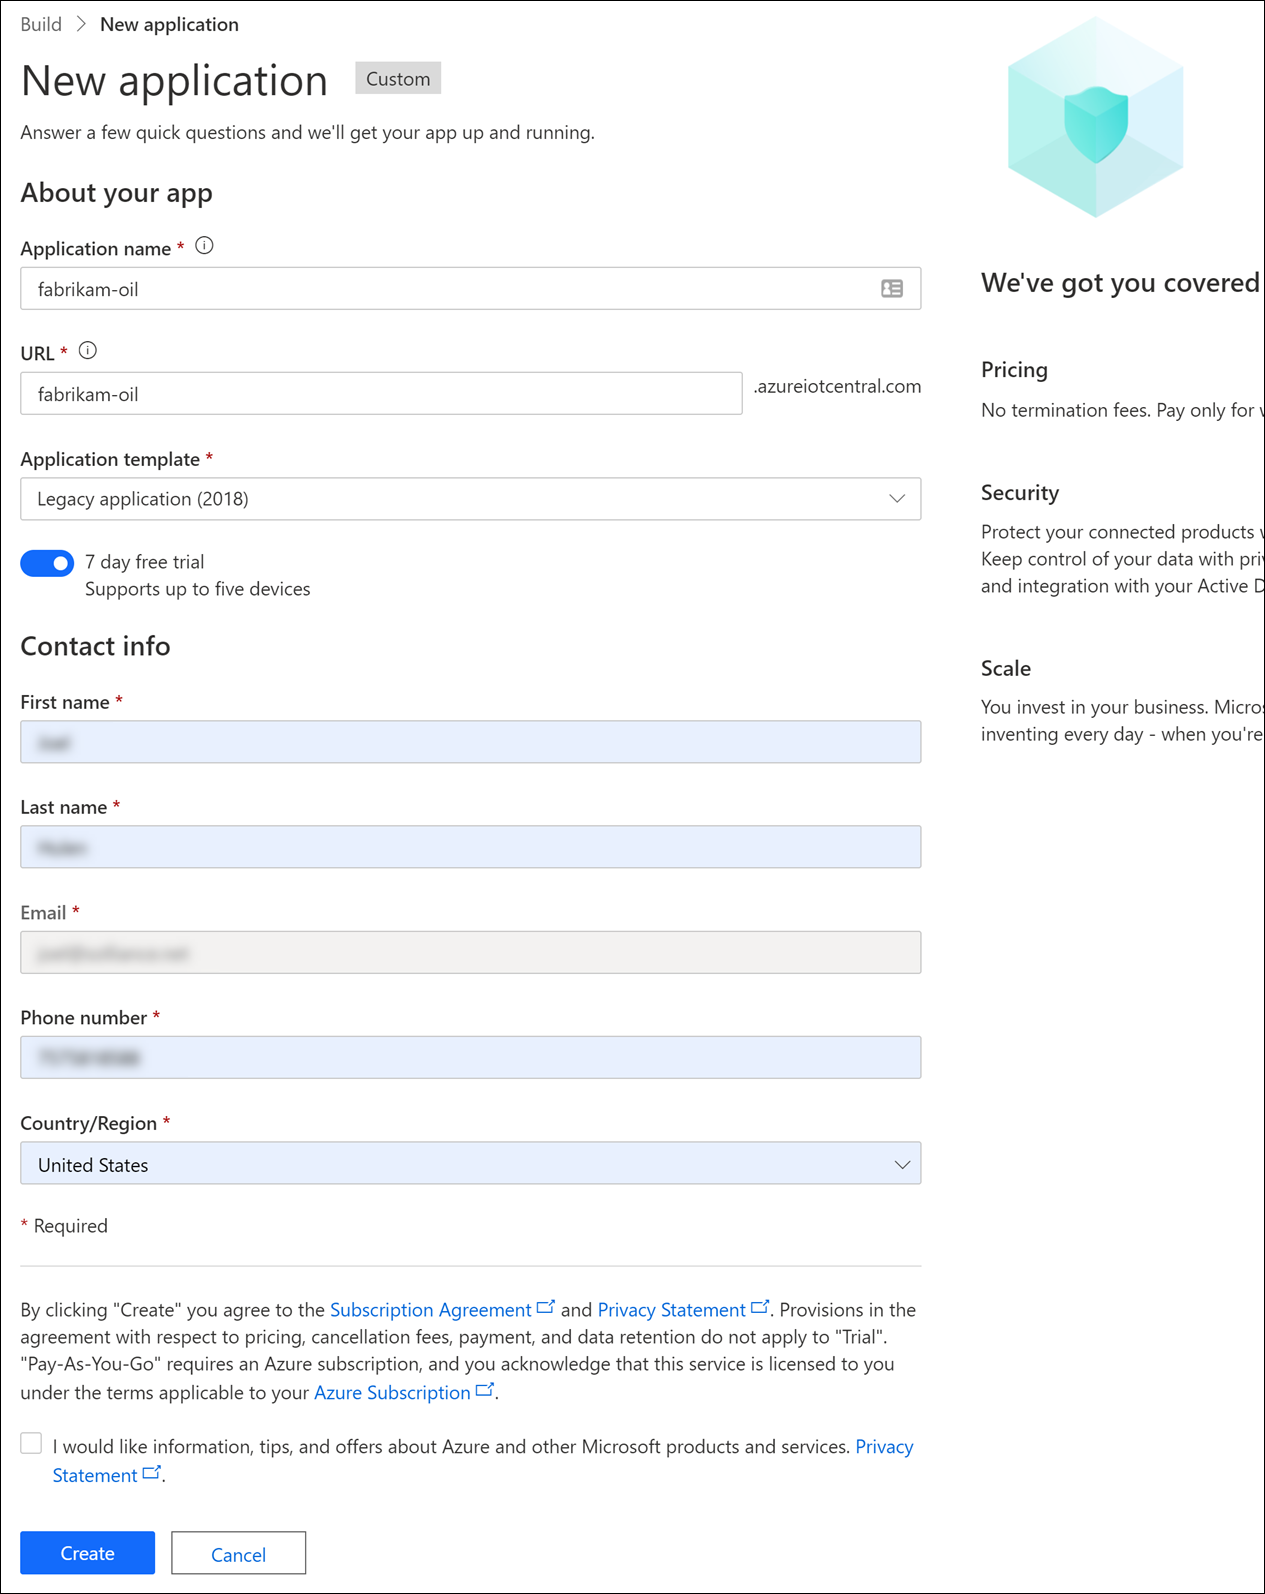
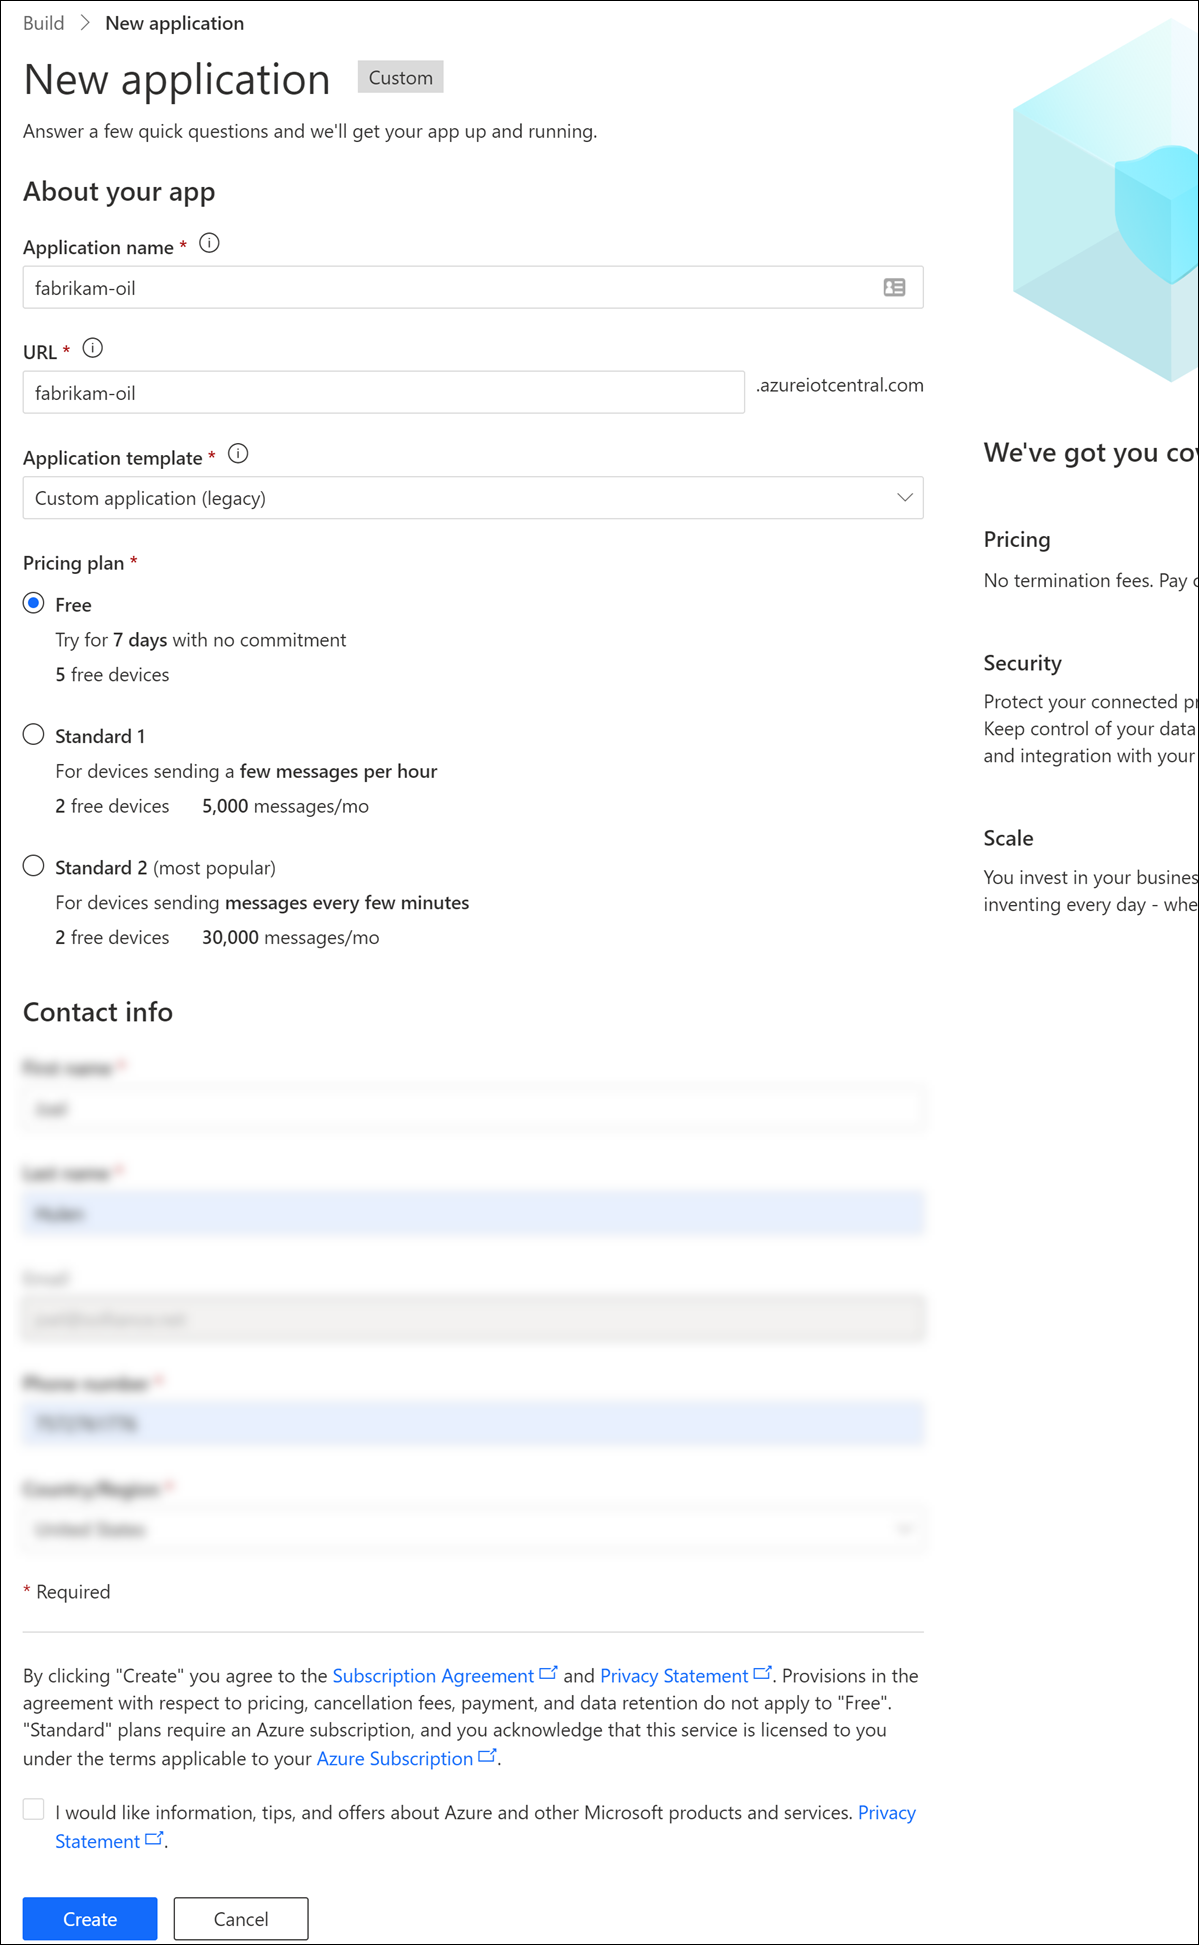
Update exercise 1

diff --git a/Hands-on lab/HOL step-by step - Predictive Maintenance for remote field devices.md b/Hands-on lab/HOL step-by step - Predictive Maintenance for remote field devices.md
@@ -168,9 +168,9 @@ The telemetry being reported by the Fabrikam rod pumps are as follows, we will b
 
     b. *URL* - this will be the URL for your application, it needs to be globally unique.
 
-    c. *Application Template* - select *Legacy application (2018)*.
+    c. *Application Template* - select *Custom application (legacy)*.
 
-    d. *7 day free trial* - select this option to enable the free trial.
+    d. *Pricing plan* - select the *Free* option to enable the free 7-day trial.
 
     e. Fill out your contact information (First Name, Last Name, Email Address, Phone Number, Country/Region).
 
